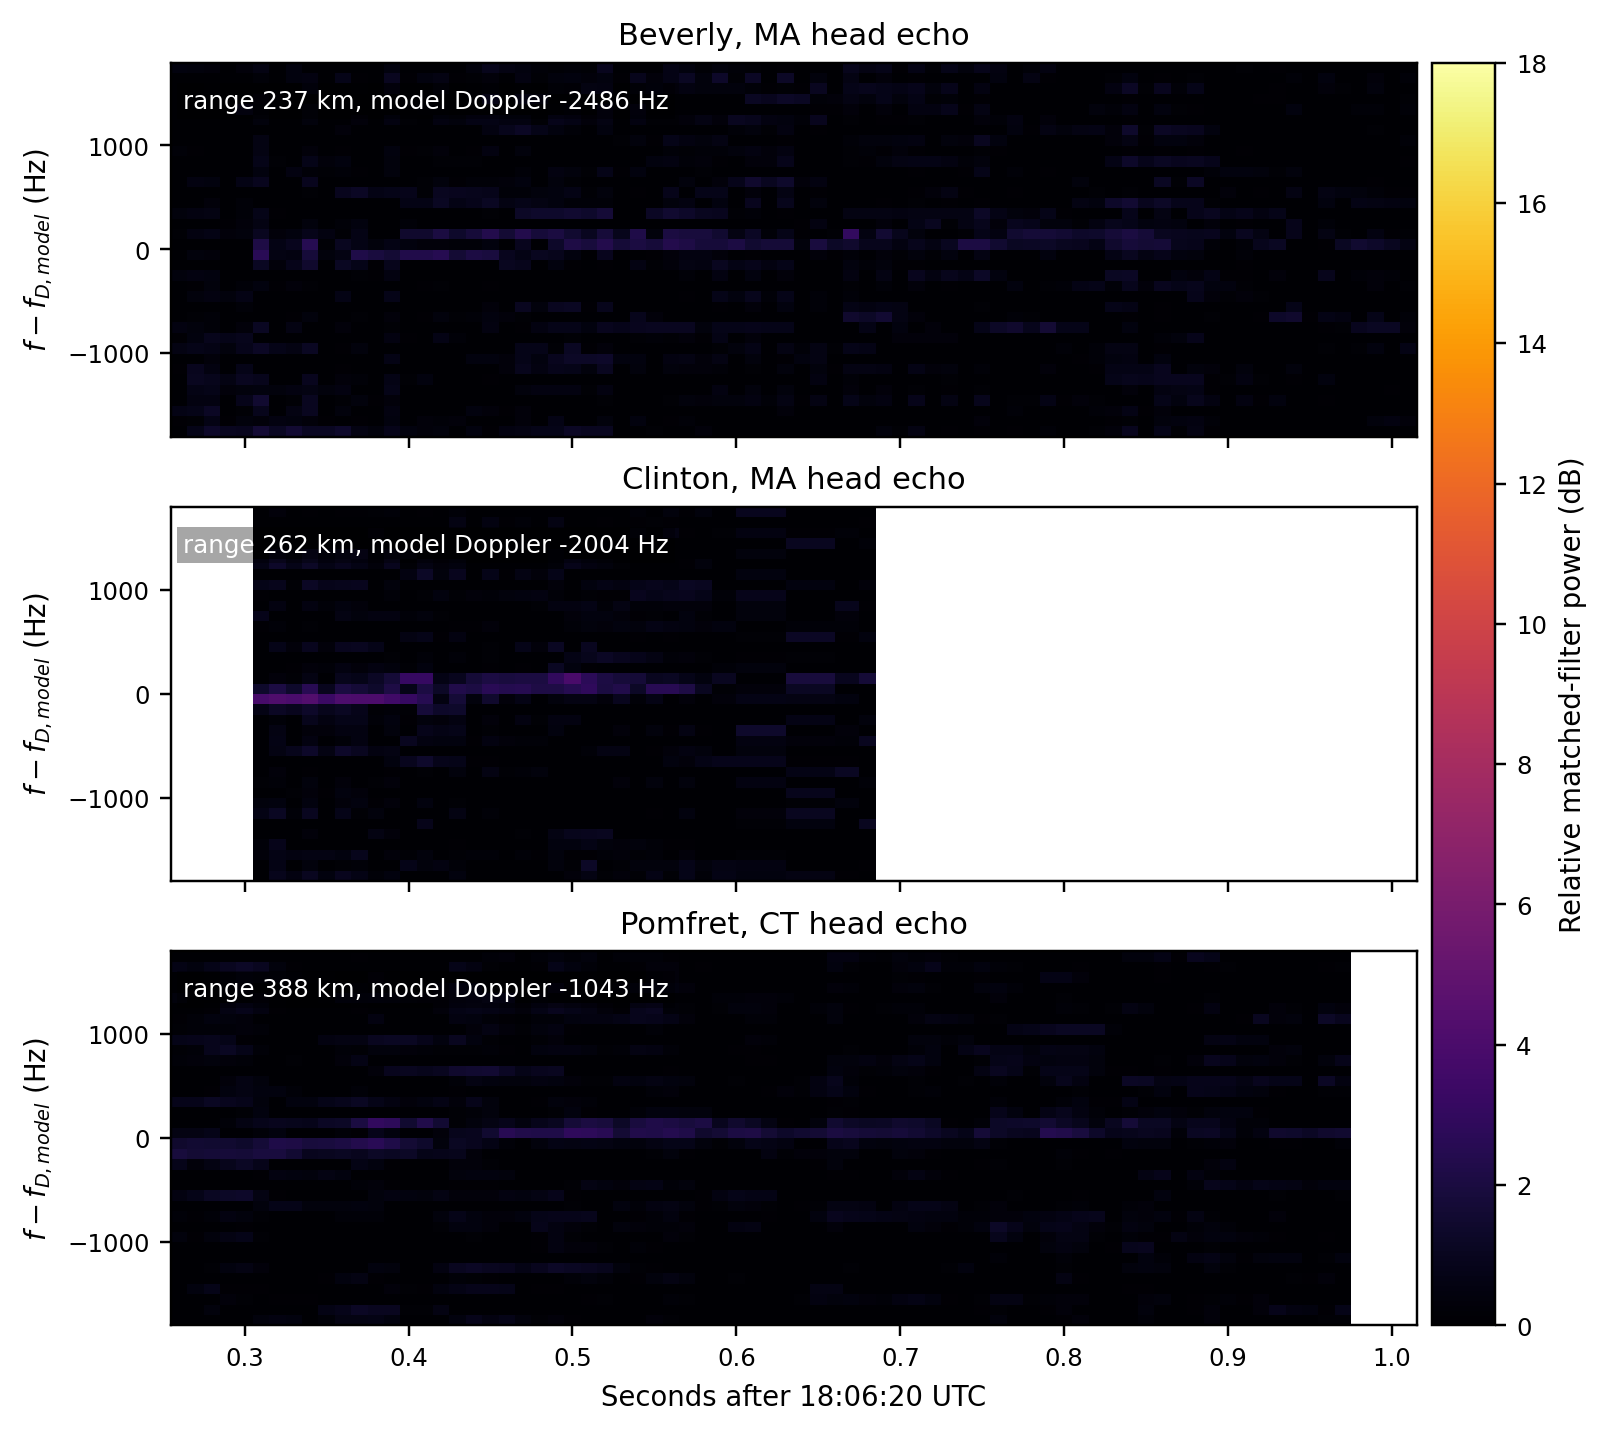
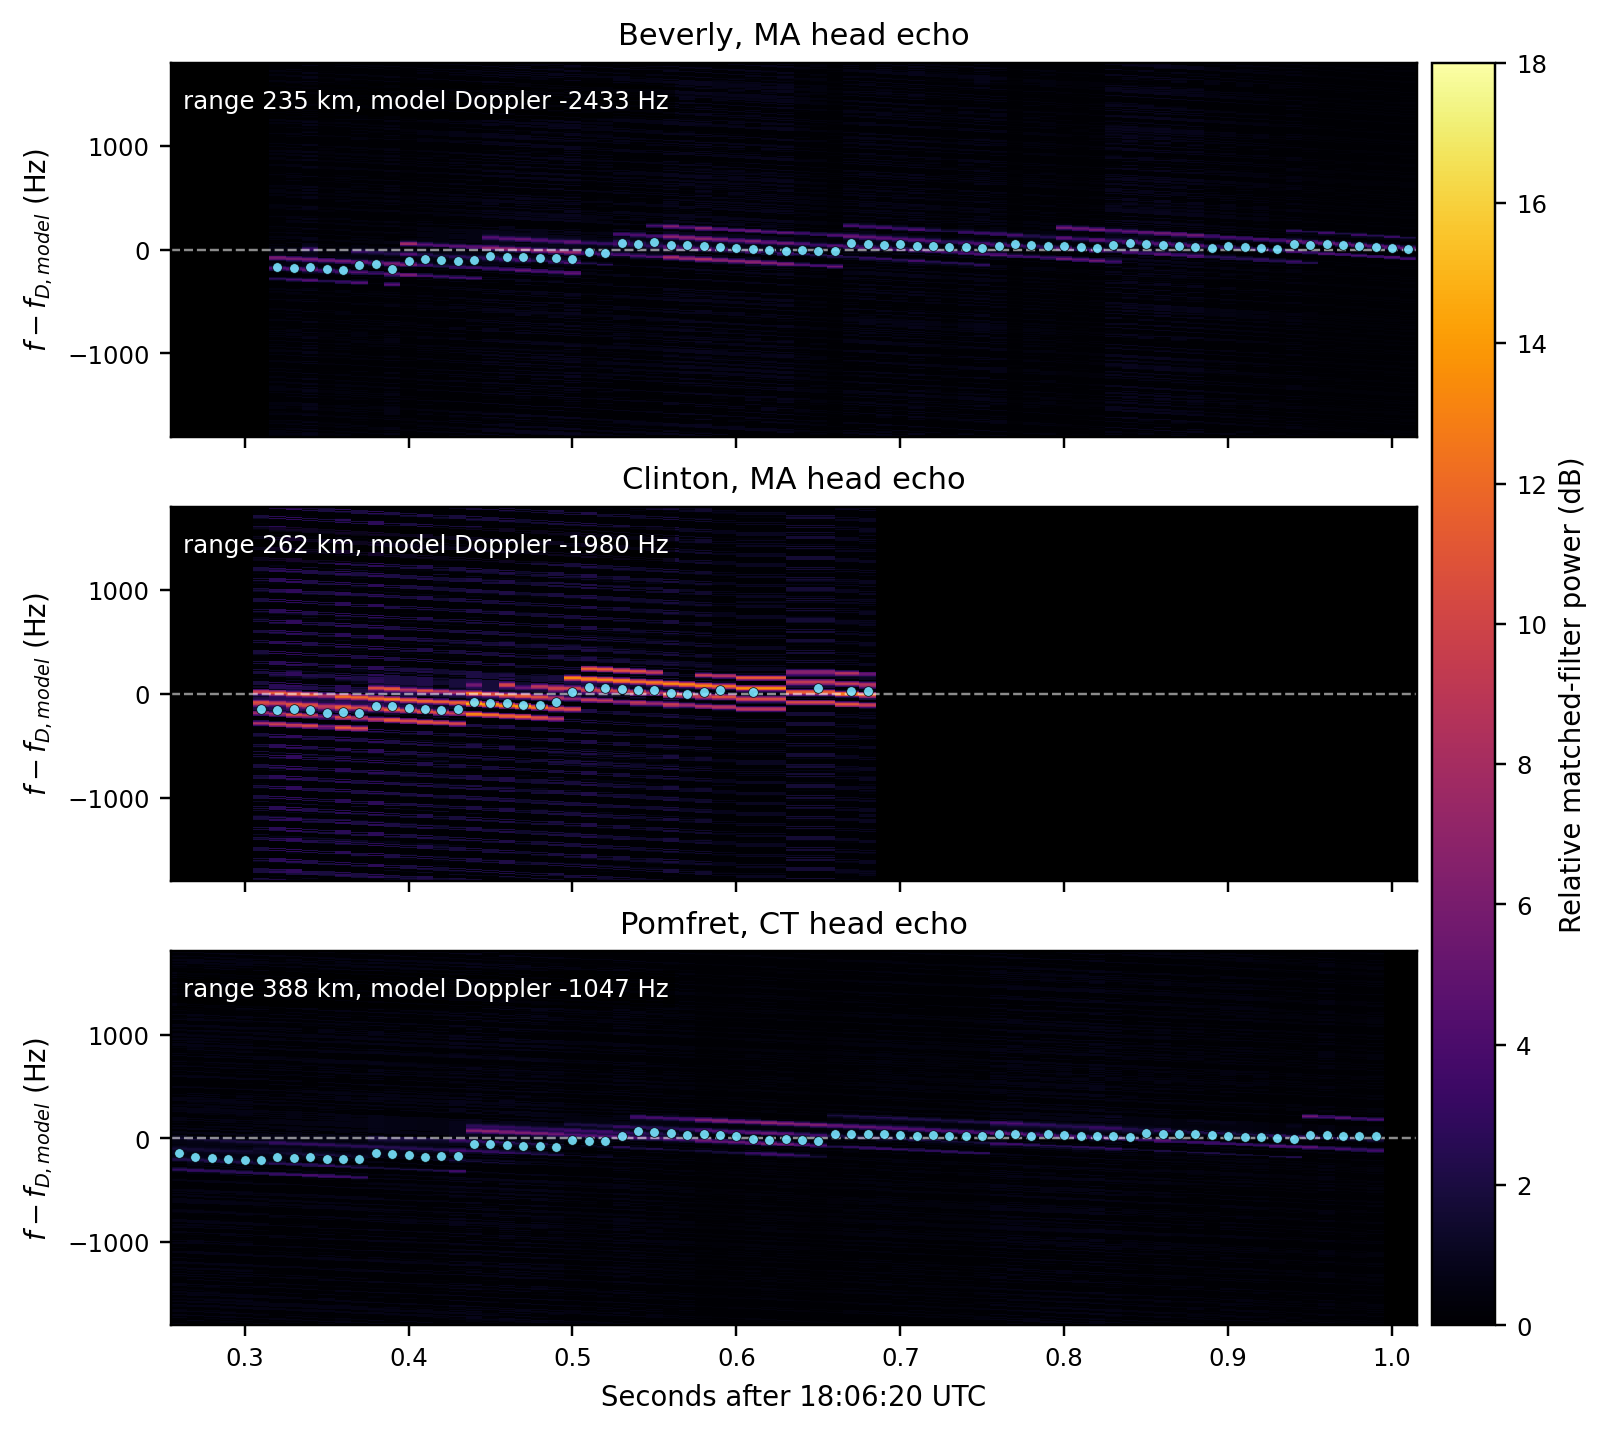
Add micro-Doppler ambiguity CLEAN diagnostic

diff --git a/reports/generate_head_microdoppler.py b/reports/generate_head_microdoppler.py
@@ -26,6 +26,7 @@ RDMF_DIR = ROOT / "products" / "rdmf_exact_highres_180615_10s_merged_20260602_09
 TRAJECTORY_JSON = ROOT / "products" / "head_echo_trajectory_roi_fit" / "head_echo_trajectory.json"
 FIG_DIR = ROOT / "reports" / "figures"
 OUT_FIG = FIG_DIR / "head_echo_microdoppler.png"
+OUT_AMBIGUITY_FIG = FIG_DIR / "head_echo_microdoppler_ambiguity.png"
 OUT_SUMMARY = ROOT / "reports" / "head_microdoppler_summary.tex"
 C = 299792458.0
 
@@ -173,15 +174,110 @@ def best_fit_doppler_hz(model: dict, station: str, unix_time: float) -> float:
     return geom["frequency_hz"] * range_rate_mps / C
 
 
-def minimum_frequency_bin(freqs: np.ndarray, spectra: np.ndarray, n_bins: int) -> tuple[np.ndarray, np.ndarray]:
-    if n_bins <= 1:
-        return freqs, spectra
-    n_freq = len(freqs)
-    start = (n_freq % n_bins) // 2
-    stop = start + ((n_freq - start) // n_bins) * n_bins
-    freqs_b = freqs[start:stop].reshape(-1, n_bins).mean(axis=1)
-    spectra_b = np.nanmin(spectra[:, start:stop].reshape(spectra.shape[0], -1, n_bins), axis=2)
-    return freqs_b, spectra_b
+def code_ambiguity_kernel(codes: list[np.ndarray]) -> np.ndarray:
+    """Return the multi-code matched-filter power response to a centered tone.
+
+    The micro-Doppler diagnostic sums power over all candidate transmit-code
+    seeds.  For an echo from one seed, the matched seed gives the desired
+    response, while the other repeated seeds produce a comb-like cross-code
+    ambiguity response.  Averaging over possible true seeds gives the
+    station-independent point-spread function used below.
+    """
+    kernel = np.zeros(len(codes[0]), dtype=np.float64)
+    for true_code in codes:
+        for test_code in codes:
+            spec = np.fft.fftshift(np.fft.fft(true_code * np.conj(test_code)))
+            kernel += np.abs(spec) ** 2
+    kernel /= float(len(codes))
+    kernel /= np.sum(kernel)
+    return kernel
+
+
+def centered_kernel_for_frequency_grid(full_kernel: np.ndarray, fvec: np.ndarray, rel_freqs: np.ndarray) -> np.ndarray:
+    center = len(full_kernel) // 2
+    full_offsets = np.arange(len(full_kernel)) - center
+    df = float(np.median(np.diff(fvec)))
+    rel_offsets = np.rint(rel_freqs / df).astype(int)
+    kernel = np.zeros(len(rel_freqs), dtype=np.float64)
+    good = (rel_offsets + center >= 0) & (rel_offsets + center < len(full_kernel))
+    kernel[good] = full_kernel[rel_offsets[good] + center]
+    if np.sum(kernel) <= 0:
+        raise ValueError("Ambiguity kernel has zero weight on the requested frequency grid")
+    kernel /= np.sum(kernel)
+    return kernel
+
+
+def clean_deconvolution_rows(
+    spectra: np.ndarray,
+    kernel: np.ndarray,
+    rel_freqs: np.ndarray,
+    picked_residuals_hz: np.ndarray,
+    n_iter: int = 12,
+    gain: float = 0.35,
+    search_half_width_hz: float = 180.0,
+) -> np.ndarray:
+    """CLEAN the ambiguity comb using the manual Doppler picks as a weak prior."""
+    kernel = np.asarray(kernel, dtype=np.float64)
+    kernel /= np.max(kernel)
+    center = len(kernel) // 2
+    df = float(np.median(np.diff(rel_freqs)))
+    sigma_bins = max(1.0, 12.0 / df)
+    x = np.arange(len(kernel)) - center
+    restore = np.exp(-0.5 * (x / sigma_bins) ** 2)
+    restore /= np.sum(restore)
+
+    out = np.empty_like(spectra, dtype=np.float64)
+    cols = np.arange(spectra.shape[1])
+    for i, y0 in enumerate(spectra):
+        y = np.nan_to_num(y0, nan=0.0, posinf=0.0, neginf=0.0)
+        baseline = np.nanpercentile(y[y > 0], 20) if np.any(y > 0) else 0.0
+        residual = np.maximum(y - baseline, 0.0)
+        clean = np.zeros_like(residual)
+        search = np.abs(rel_freqs - picked_residuals_hz[i]) <= search_half_width_hz
+        if not np.any(search):
+            search = np.abs(rel_freqs) <= search_half_width_hz
+        for _ in range(n_iter):
+            masked = np.where(search, residual, -np.inf)
+            peak_idx = int(np.argmax(masked))
+            peak = residual[peak_idx]
+            if not np.isfinite(peak) or peak <= 0:
+                break
+            amp = gain * peak
+            clean[peak_idx] += amp
+            shift = peak_idx - center
+            k_idx = cols - shift
+            good = (k_idx >= 0) & (k_idx < len(kernel))
+            residual[good] = np.maximum(residual[good] - amp * kernel[k_idx[good]], 0.0)
+        restored = np.convolve(clean, restore, mode="same")
+        residual_floor = np.minimum(residual, np.nanpercentile(residual, 70) if np.any(residual > 0) else 0.0)
+        out[i, :] = np.maximum(restored + residual_floor + baseline, 1e-30)
+    return out
+
+
+def plot_ambiguity_kernel(rel_freqs: np.ndarray, kernel: np.ndarray, n_coh: int) -> Path:
+    FIG_DIR.mkdir(parents=True, exist_ok=True)
+    plt.rcParams.update({
+        "font.size": 9,
+        "axes.titlesize": 10,
+        "axes.labelsize": 9,
+        "xtick.labelsize": 8,
+        "ytick.labelsize": 8,
+    })
+    k_db = 10.0 * np.log10(np.maximum(kernel / np.max(kernel), 1e-12))
+    fig, ax = plt.subplots(figsize=(7.2, 2.8), constrained_layout=True)
+    ax.plot(rel_freqs, k_db, color="black", lw=0.9)
+    df = float(np.median(np.diff(rel_freqs)))
+    repeat_hz = n_coh * df
+    for x in np.arange(-1800.0, 1800.1, repeat_hz):
+        ax.axvline(x, color="#c73e3a", lw=0.55, alpha=0.28)
+    ax.set_xlim(float(np.nanmin(rel_freqs)), float(np.nanmax(rel_freqs)))
+    ax.set_ylim(-60, 1)
+    ax.set_xlabel("Residual Doppler offset (Hz)")
+    ax.set_ylabel("Relative response (dB)")
+    ax.set_title(f"Multi-code ambiguity kernel; repeat spacing {repeat_hz:.1f} Hz ({n_coh} FFT bins)")
+    fig.savefig(OUT_AMBIGUITY_FIG, dpi=220, bbox_inches="tight")
+    plt.close(fig)
+    return OUT_AMBIGUITY_FIG
 
 
 def station_microdoppler(station: str, observations: list[dict], doppler_model: dict, rel_half_width_hz: float = 1800.0) -> dict:
@@ -195,7 +291,6 @@ def station_microdoppler(station: str, observations: list[dict], doppler_model: 
         n_coh = 16
         n_incoh = 16
         step_codes = 1
-        freq_bin_count = n_coh
         range_interp = int(h["range_interp"][()])
         sample_rate = float(h["sample_rate"][()])
         range_resolution_m = float(h["range_resolution_m"][()])
@@ -203,9 +298,9 @@ def station_microdoppler(station: str, observations: list[dict], doppler_model: 
         seconds = max(float(h.attrs["seconds"]), 10.0)
         iso_hour = str(h.attrs["iso_hour"])
         t0_sample = float(h["t0_sample"][()])
-        dc_cancel = bool(int(h["dc_cancel"][()]))
-        dc_cancel_seconds = float(h["dc_cancel_seconds"][()])
-        dc_cancel_start_second = float(h["dc_cancel_start_second"][()])
+        dc_cancel = bool(int(h["dc_cancel"][()])) if "dc_cancel" in h else False
+        dc_cancel_seconds = float(h["dc_cancel_seconds"][()]) if "dc_cancel_seconds" in h else 5.0
+        dc_cancel_start_second = float(h["dc_cancel_start_second"][()]) if "dc_cancel_start_second" in h else 0.0
         range_idx_all = h["range_idx"][()]
 
     sample_rate_i = sample_rate * range_interp
@@ -217,6 +312,8 @@ def station_microdoppler(station: str, observations: list[dict], doppler_model: 
     rel_freqs = np.arange(-rel_half_width_hz, rel_half_width_hz + 0.5 * df, df)
     code_seeds = [int(seed) for seed in seeds]
     codes = get_codes(seeds, code_len, n_coh, range_interp)
+    ambiguity_kernel_full = code_ambiguity_kernel(codes)
+    ambiguity_kernel = centered_kernel_for_frequency_grid(ambiguity_kernel_full, fvec, rel_freqs)
     zc, _sr, abs_index0 = read_station_channels(
         data_dir,
         station,
@@ -277,10 +374,13 @@ def station_microdoppler(station: str, observations: list[dict], doppler_model: 
     spectra = np.asarray(spectra, dtype=np.float64)
     if spectra.size == 0:
         raise ValueError(f"No spectra generated for {station}")
-    rel_freqs, spectra = minimum_frequency_bin(rel_freqs, spectra, freq_bin_count)
+    picked_residuals_hz = np.asarray(picked_dopplers_hz) - np.asarray(model_dopplers_hz)
+    deconvolved = clean_deconvolution_rows(spectra, ambiguity_kernel, rel_freqs, picked_residuals_hz)
     spec_db = 10.0 * np.log10(np.maximum(spectra, 1e-30))
+    deconvolved_db = 10.0 * np.log10(np.maximum(deconvolved, 1e-30))
     # Remove a per-station robust background level so panels share an SNR-like scale.
     spec_db -= np.nanmedian(spec_db)
+    deconvolved_db -= np.nanmedian(deconvolved_db)
     return {
         "station": station,
         "times": np.asarray(times),
@@ -290,12 +390,15 @@ def station_microdoppler(station: str, observations: list[dict], doppler_model: 
         "picked_dopplers_hz": np.asarray(picked_dopplers_hz),
         "rel_freqs": np.asarray(rel_freqs),
         "spec_db": spec_db,
+        "deconvolved_db": deconvolved_db,
+        "ambiguity_kernel": ambiguity_kernel,
         "code_seeds": code_seeds,
         "product_n_coh": product_n_coh,
         "micro_n_coh": n_coh,
         "micro_n_incoh": n_incoh,
         "micro_step_codes": step_codes,
-        "micro_freq_bin_count": freq_bin_count,
+        "micro_clean_iterations": 12,
+        "micro_clean_gain": 0.35,
     }
 
 
@@ -313,10 +416,24 @@ def plot_microdoppler(results: list[dict]) -> Path:
         axes = [axes]
     mappable = None
     for ax, res in zip(axes, results):
+        ax.set_facecolor("black")
         t = res["time_rel"]
         f = res["rel_freqs"]
-        z = res["spec_db"].T
+        z = res["deconvolved_db"].T
         mappable = ax.pcolormesh(t, f, z, shading="auto", cmap="inferno", vmin=0.0, vmax=18.0)
+        picked_residual = res["picked_dopplers_hz"] - res["model_dopplers_hz"]
+        ax.axhline(0.0, color="white", lw=0.8, ls="--", alpha=0.55)
+        ax.scatter(
+            t,
+            picked_residual,
+            s=10,
+            marker="o",
+            facecolor="#79e6ff",
+            edgecolor="black",
+            linewidth=0.25,
+            alpha=0.9,
+            zorder=3,
+        )
         ax.set_ylabel("$f-f_{D,model}$ (Hz)")
         ax.set_title(f"{STATION_LABELS[res['station']]} head echo")
         ax.text(
@@ -328,7 +445,7 @@ def plot_microdoppler(results: list[dict]) -> Path:
             fontsize=8,
             ha="left",
             va="top",
-            bbox={"facecolor": "black", "alpha": 0.35, "edgecolor": "none", "pad": 2},
+            bbox={"facecolor": "black", "alpha": 0.55, "edgecolor": "none", "pad": 2},
         )
     axes[-1].set_xlabel("Seconds after 18:06:20 UTC")
     if mappable is not None:
@@ -347,7 +464,8 @@ def write_summary(results: list[dict]) -> None:
         f"\\newcommand{{\\HeadMicroDopplerNCoherentCodes}}{{{results[0]['micro_n_coh']}}}\n",
         f"\\newcommand{{\\HeadMicroDopplerNIncoherentSpectra}}{{{results[0]['micro_n_incoh']}}}\n",
         f"\\newcommand{{\\HeadMicroDopplerStepCodes}}{{{results[0]['micro_step_codes']}}}\n",
-        f"\\newcommand{{\\HeadMicroDopplerFrequencyBinCount}}{{{results[0]['micro_freq_bin_count']}}}\n",
+        f"\\newcommand{{\\HeadMicroDopplerCleanIterations}}{{{results[0]['micro_clean_iterations']}}}\n",
+        f"\\newcommand{{\\HeadMicroDopplerCleanGain}}{{{results[0]['micro_clean_gain']:.2f}}}\n",
     ]
     for res in results:
         name = res["station"].title()
@@ -363,8 +481,10 @@ def main() -> None:
     payload, observations = load_station_observations()
     doppler_model = load_doppler_model(payload, data_dir)
     results = [station_microdoppler(station, observations[station], doppler_model) for station in STATIONS]
+    ambiguity = plot_ambiguity_kernel(results[0]["rel_freqs"], results[0]["ambiguity_kernel"], results[0]["micro_n_coh"])
     out = plot_microdoppler(results)
     write_summary(results)
+    print(ambiguity)
     print(out)
     print(OUT_SUMMARY)
 

diff --git a/reports/head_microdoppler_summary.tex b/reports/head_microdoppler_summary.tex
@@ -4,16 +4,17 @@
 \newcommand{\HeadMicroDopplerNCoherentCodes}{16}
 \newcommand{\HeadMicroDopplerNIncoherentSpectra}{16}
 \newcommand{\HeadMicroDopplerStepCodes}{1}
-\newcommand{\HeadMicroDopplerFrequencyBinCount}{16}
-\newcommand{\HeadMicroDopplerBeverlyN}{76}
-\newcommand{\HeadMicroDopplerBeverlyMedianRangeKm}{237}
-\newcommand{\HeadMicroDopplerBeverlyMedianDopplerHz}{-2486}
-\newcommand{\HeadMicroDopplerBeverlyMedianPickedDopplerHz}{-2462}
+\newcommand{\HeadMicroDopplerCleanIterations}{12}
+\newcommand{\HeadMicroDopplerCleanGain}{0.35}
+\newcommand{\HeadMicroDopplerBeverlyN}{70}
+\newcommand{\HeadMicroDopplerBeverlyMedianRangeKm}{235}
+\newcommand{\HeadMicroDopplerBeverlyMedianDopplerHz}{-2433}
+\newcommand{\HeadMicroDopplerBeverlyMedianPickedDopplerHz}{-2406}
 \newcommand{\HeadMicroDopplerClintonN}{33}
 \newcommand{\HeadMicroDopplerClintonMedianRangeKm}{262}
-\newcommand{\HeadMicroDopplerClintonMedianDopplerHz}{-2004}
+\newcommand{\HeadMicroDopplerClintonMedianDopplerHz}{-1980}
 \newcommand{\HeadMicroDopplerClintonMedianPickedDopplerHz}{-2075}
-\newcommand{\HeadMicroDopplerPomfretN}{72}
+\newcommand{\HeadMicroDopplerPomfretN}{74}
 \newcommand{\HeadMicroDopplerPomfretMedianRangeKm}{388}
-\newcommand{\HeadMicroDopplerPomfretMedianDopplerHz}{-1043}
+\newcommand{\HeadMicroDopplerPomfretMedianDopplerHz}{-1047}
 \newcommand{\HeadMicroDopplerPomfretMedianPickedDopplerHz}{-1038}
